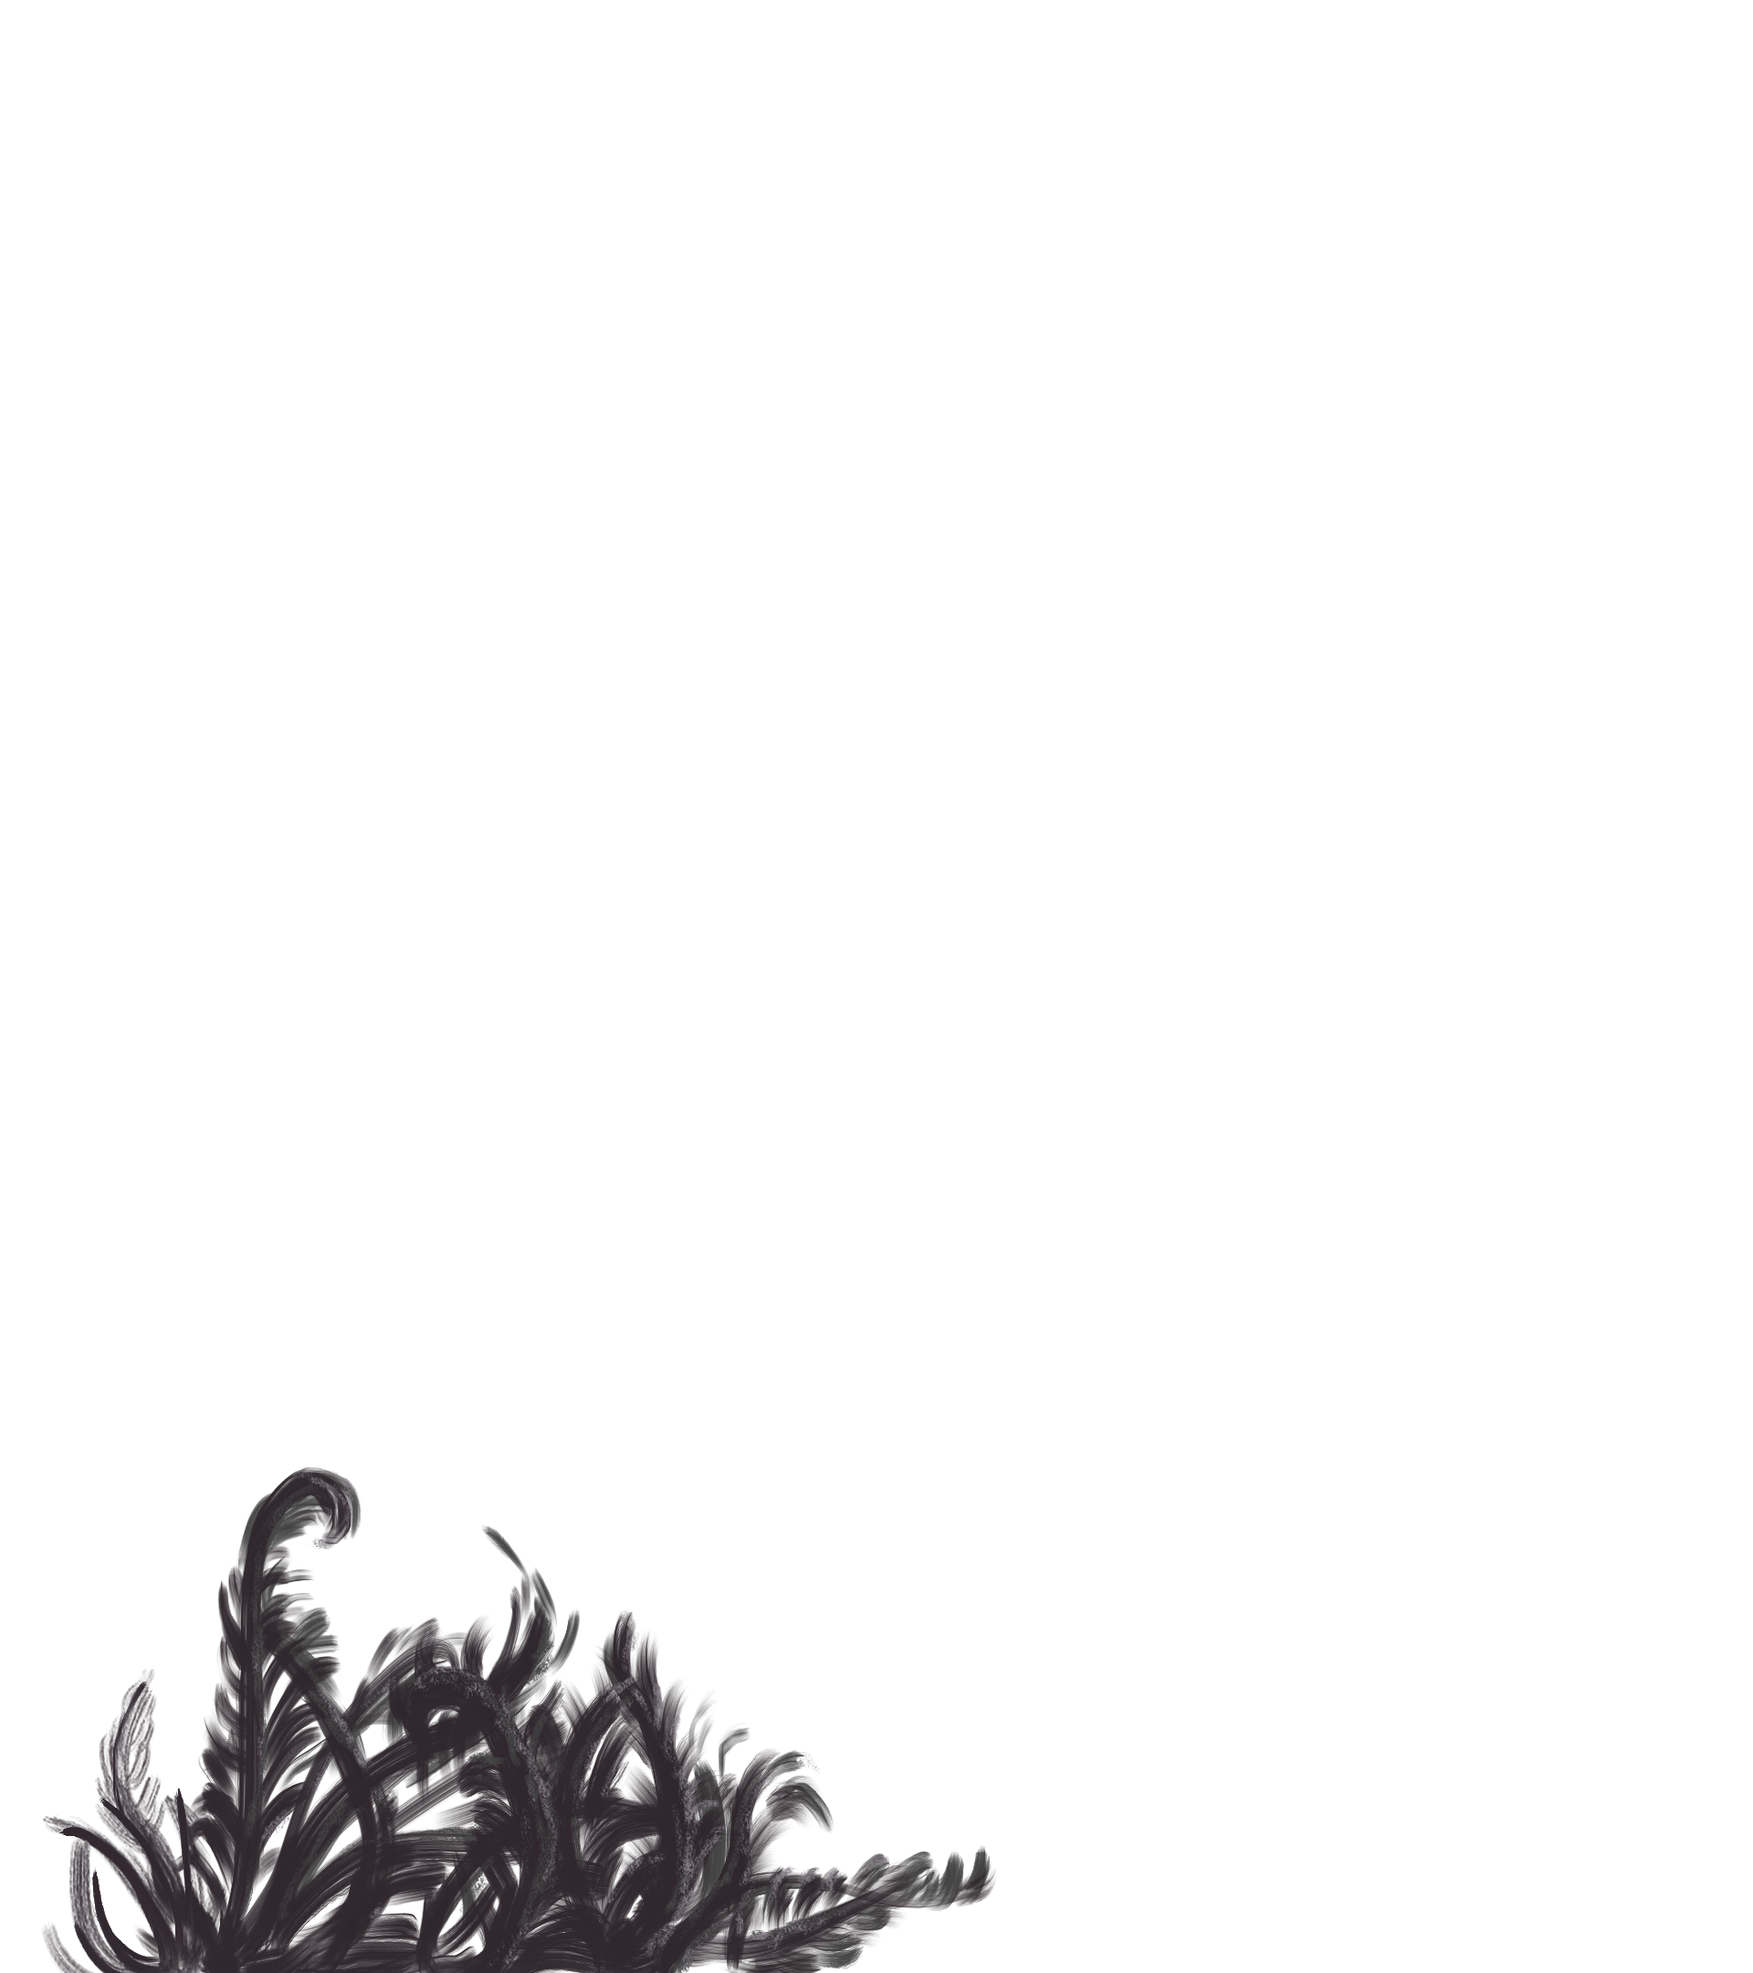
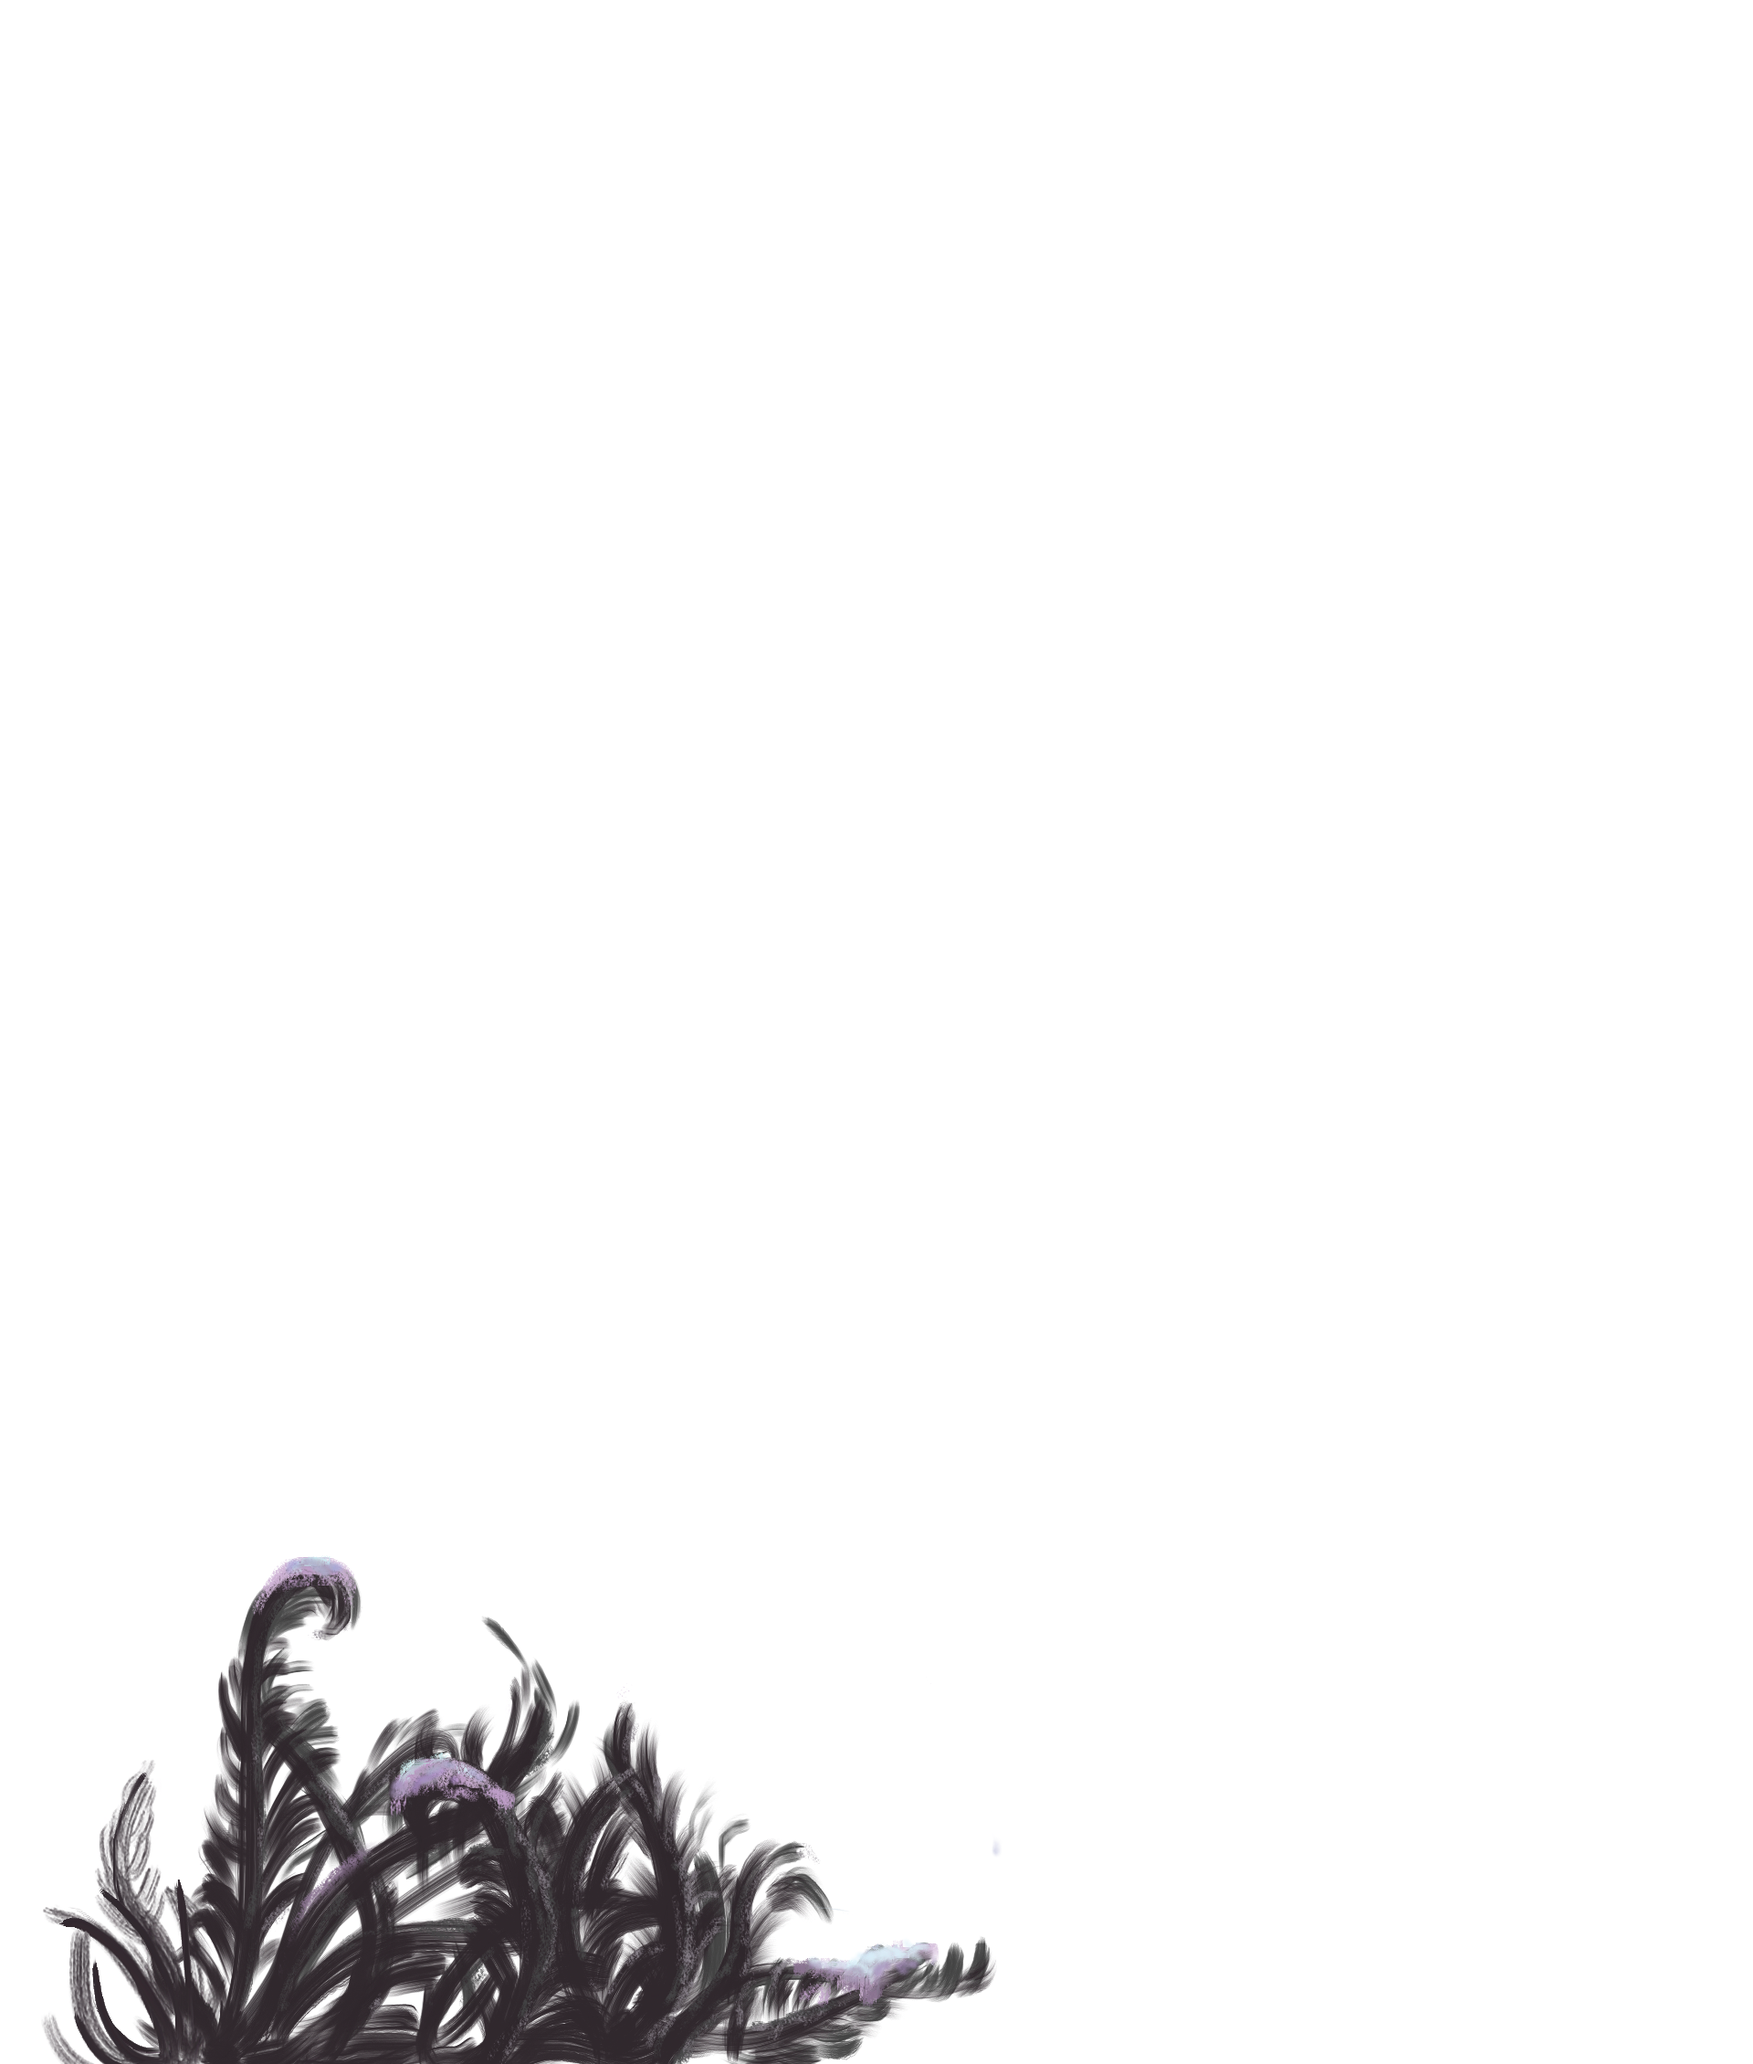
adds snow assets

Changed region(s): [[0.0312, 0.7444, 0.5625, 0.9926]]

diff --git a/drawn.html b/drawn.html
@@ -46,15 +46,14 @@
     <div class="ground-container">
       <!-- Ground -->
       <img src="/BackgroundMtns2160.png" alt="Mountains background" class="ground background mtns">
-      <img src="/DarkBackground2160.png" alt="Dark ground" class="ground background dk-bkground">
-      <img src="/LightBkgrd2160.png" alt="Light ground" class="ground background lt-bkground">
+      <img src="/LightBackground2160.png" alt="Light ground" class="ground background lt-bkground">
 
       <!-- Two backmost trees -->
       <img src="/LeftBackTree2-2160.png" alt="Left background dark tree" class="ground left-back-tree2 left-trees">
       <img src="/RightBackTree2-2160.png" alt="Right background dark tree" class="ground right-back-tree2 right-trees">
 
       <!-- Main tree -->
-      <img src="/MainTreeWLights2160.png" alt="Main holiday tree" class="ground main-tree">
+      <img src="/MainTree2160.png" alt="Main holiday tree" class="ground main-tree">
 
       <!-- Trees flanking scene -->
       <img src="/RightBackTree2160.png" alt="Right tree background" class="ground right-back-tree right-trees">

diff --git a/drawn.js b/drawn.js
@@ -9,9 +9,9 @@ let skyTL = gsap.timeline({
   scrollTrigger: {
     trigger: ".cloud-container",
     start: "center center",
-    // end: "bottom top",
+    end: "bottom top",
     ease: "ease-in",
-    end: "+=5000",
+    // end: "+=5000",
     scrub: 3,
     pin: true,
     // markers: true,
@@ -87,8 +87,7 @@ groundTL
   .from(".left-back-tree2", {y: innerHeight * 0.2, x: 80}, 0.2)
   .from(".right-back-tree2", {y: innerHeight * 0.2, x : -80}, '<')
   .from(".mtns", {y: innerHeight * 0.3}, 0.1)
-  .from(".dk-bkground", {y: innerHeight * 0.3}, 0.2)
-  .from(".lt-bkground", {y: innerHeight * 0.3}, "<")
+  .from(".lt-bkground", {y: innerHeight * 0.3}, 0.2)
   .from(".left-foreground", {y: innerHeight * 0.2}, 0.1)
   .from(".right-foreground", {y: innerHeight * 0.2}, "<")
   .from(".main-tree", {y: innerHeight * 0.75}, 0.5)

diff --git a/public/styles.css b/public/styles.css
@@ -75,7 +75,8 @@ body {
   text-align: left;
 }
 
-/* Ground forest section */
+/* ground forest section */
+
 .ground-container {
   padding: 20px;
   height: 150vh;

diff --git a/README.md b/README.md
@@ -1,4 +1,4 @@
-# Advent of Code invite experiments
+# Holiday card + Cloud invite experiments
 
 In the project directory, use `npx vite` to start a local server.
 
